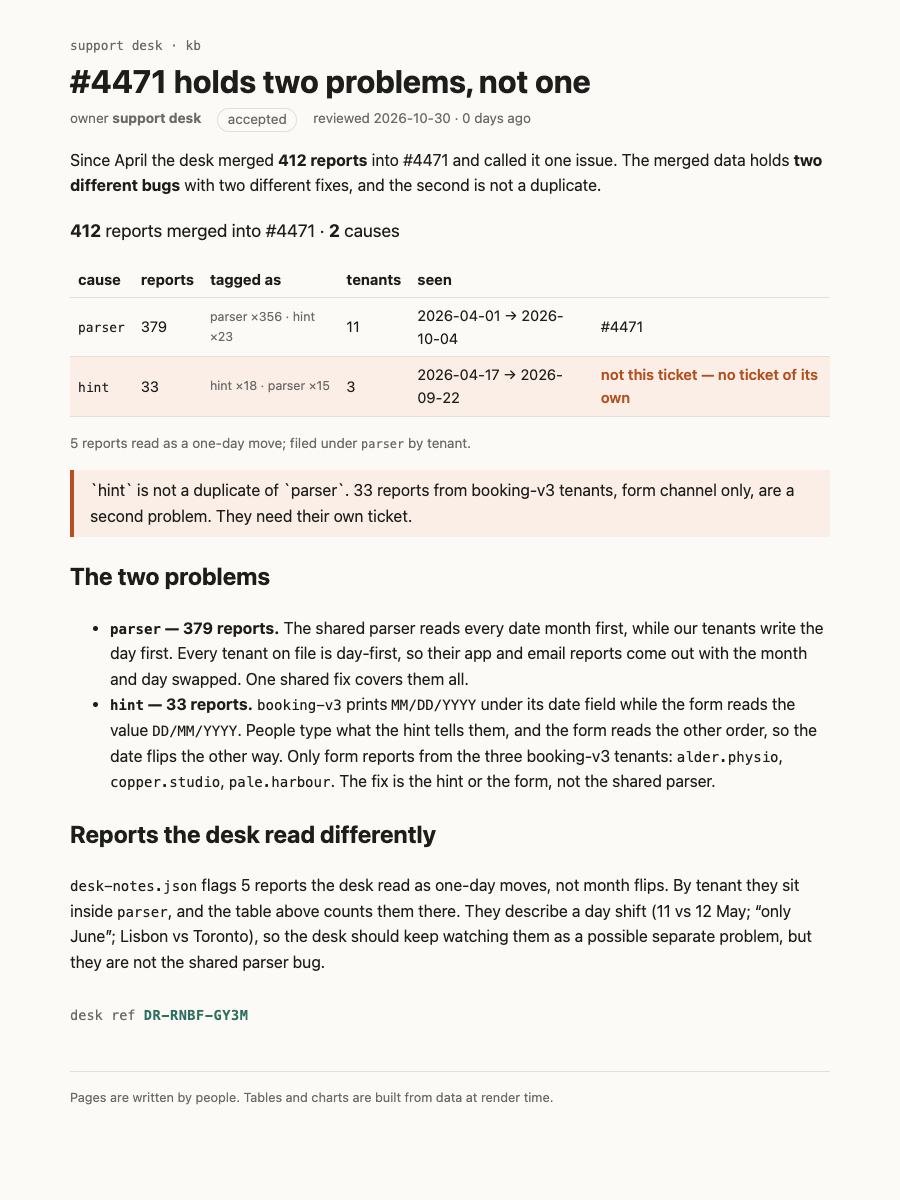
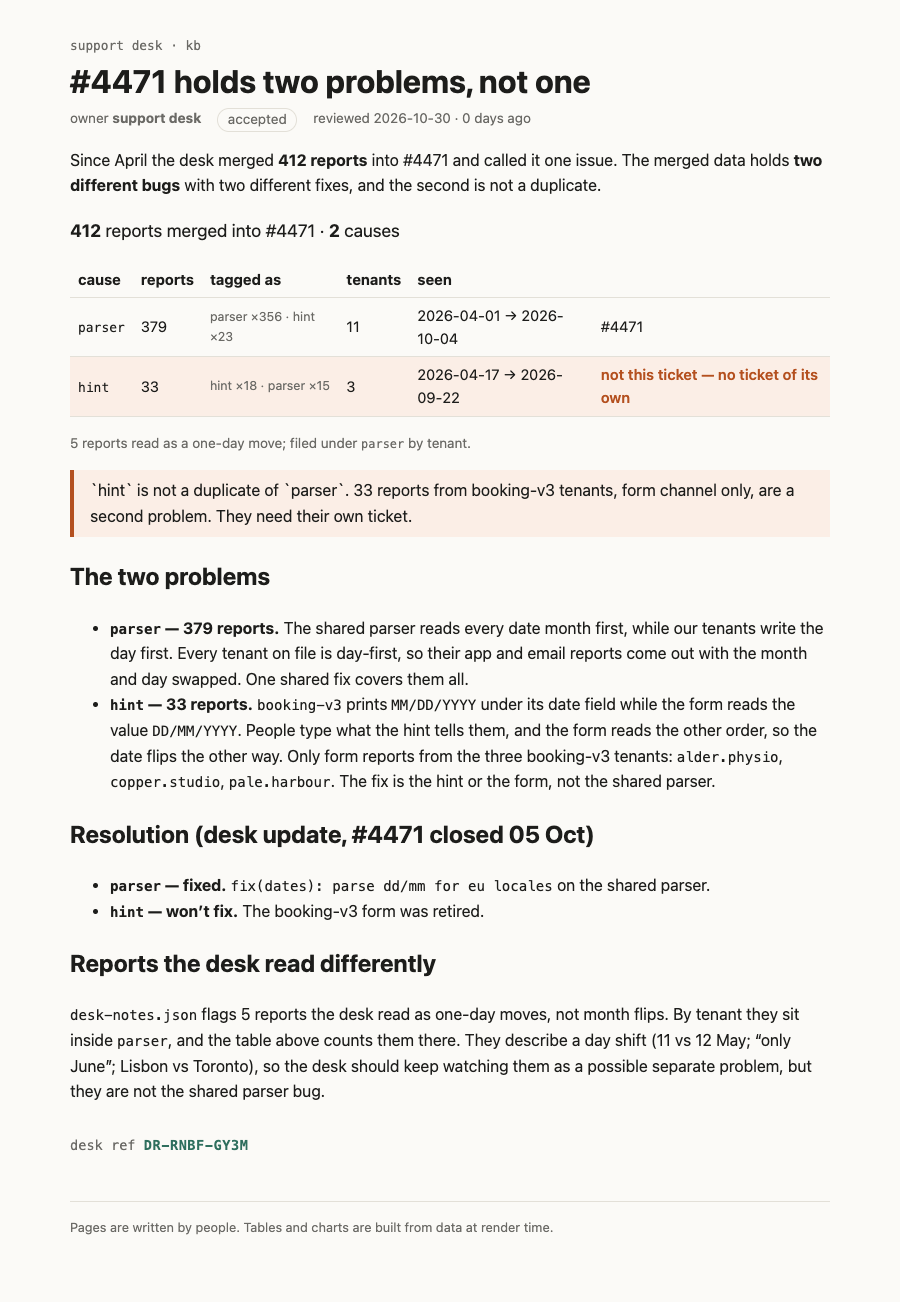
Record desk update: #4471 closed, parser fixed, hint won't fix

Changed region(s): [[0.0622, 0.0308, 0.9022, 0.9558], [0.6533, 0.2467, 0.9022, 0.3392]]

diff --git a/render/4471-split.html b/render/4471-split.html
@@ -3,19 +3,19 @@
   <head>
     <meta charset="utf-8" />
     <meta name="viewport" content="width=device-width, initial-scale=1" />
-    <link href="../../_app/immutable/entry/start.DfA7Uaoa.js" rel="modulepreload">
+    <link href="../../_app/immutable/entry/start.BN0Gp2o3.js" rel="modulepreload">
 		<link href="../../_app/immutable/chunks/CRcspTbo.js" rel="modulepreload">
-		<link href="../../_app/immutable/chunks/BviwEzRQ.js" rel="modulepreload">
+		<link href="../../_app/immutable/chunks/BpSolJod.js" rel="modulepreload">
 		<link href="../../_app/immutable/chunks/D3s-tUuN.js" rel="modulepreload">
-		<link href="../../_app/immutable/entry/app.sOfH24lF.js" rel="modulepreload">
+		<link href="../../_app/immutable/entry/app.Cfd6Z42b.js" rel="modulepreload">
 		<link href="../../_app/immutable/chunks/x-Z7bFtw.js" rel="modulepreload">
 		<link href="../../_app/immutable/chunks/CYIXcEhq.js" rel="modulepreload">
 		<link href="../../_app/immutable/chunks/Bve9mMNQ.js" rel="modulepreload">
 		<link href="../../_app/immutable/chunks/xhiOYC88.js" rel="modulepreload">
 		<link href="../../_app/immutable/nodes/0.B4l5vLWN.js" rel="modulepreload">
 		<link href="../../_app/immutable/chunks/_amNOql9.js" rel="modulepreload">
-		<link href="../../_app/immutable/nodes/6.CrDPxVmW.js" rel="modulepreload">
-		<link href="../../_app/immutable/chunks/kpGaJBaq.js" rel="modulepreload">
+		<link href="../../_app/immutable/nodes/6.DRhnGt9m.js" rel="modulepreload">
+		<link href="../../_app/immutable/chunks/BgHNejmx.js" rel="modulepreload">
 		<link href="../../_app/immutable/chunks/DLDRj6ak.js" rel="modulepreload">
 		<link href="../../_app/immutable/chunks/CUrF2orn.js" rel="modulepreload">
 		<link href="../../_app/immutable/chunks/CcfOalV3.js" rel="modulepreload">
@@ -35,22 +35,22 @@ reports come out with the month and day swapped. One shared fix covers them all.
 form reads the value <code>DD/MM/YYYY</code>. People type what the hint tells them, and the form reads
 the other order, so the date flips the other way. Only form reports from the three
 booking-v3 tenants: <code>alder.physio</code>, <code>copper.studio</code>, <code>pale.harbour</code>. The fix is the hint or
-the form, not the shared parser.</li></ul> <h2>Reports the desk read differently</h2> <p><code>desk-notes.json</code> flags 5 reports the desk read as one-day moves, not month flips. By tenant
+the form, not the shared parser.</li></ul> <h2>Resolution (desk update, #4471 closed 05 Oct)</h2> <ul><li><strong><code>parser</code> — fixed.</strong> <code>fix(dates): parse dd/mm for eu locales</code> on the shared parser.</li> <li><strong><code>hint</code> — won’t fix.</strong> The booking-v3 form was retired.</li></ul> <h2>Reports the desk read differently</h2> <p><code>desk-notes.json</code> flags 5 reports the desk read as one-day moves, not month flips. By tenant
 they sit inside <code>parser</code>, and the table above counts them there. They describe a day shift
 (11 vs 12 May; “only June”; Lisbon vs Toronto), so the desk should keep watching them as a
 possible separate problem, but they are not the shared parser bug.</p> <!--[0--><p class="stamp svelte-1280m42">desk ref <b class="svelte-1280m42">DR-RNBF-GY3M</b></p><!--]--><!----><!----></main> <footer class="svelte-e2jw2j">Pages are written by people. Tables and charts are built from data at render time.</footer></div><!--]--><!----><!--]--><!--]--> <!--[-1--><!--]--><!--]-->
 			
 			<script>
 				{
-					__sveltekit_173a4hl = {
+					__sveltekit_1co06wr = {
 						base: new URL("../..", location).pathname.slice(0, -1)
 					};
 
 					const element = document.currentScript.parentElement;
 
 					Promise.all([
-						import("../../_app/immutable/entry/start.DfA7Uaoa.js"),
-						import("../../_app/immutable/entry/app.sOfH24lF.js")
+						import("../../_app/immutable/entry/start.BN0Gp2o3.js"),
+						import("../../_app/immutable/entry/app.Cfd6Z42b.js")
 					]).then(([kit, app]) => {
 						kit.start(app, element, {
 							node_ids: [0, 6],

diff --git a/README.md b/README.md
@@ -17,6 +17,10 @@ One GitHub issue per problem, each with the number of reports it covers:
 379 + 33 = 412. The 5 reports in `desk-notes.json` that the desk read as "one-day moves" are
 counted inside `parser` here, exactly as the desk filed them.
 
+**Desk update:** #4471 is closed 05 Oct. `parser` is fixed (`fix(dates): parse dd/mm for eu
+locales`); `hint` won't fix, because the booking-v3 form was retired. Both tickets are closed
+to match.
+
 ## The page
 
 `kb/src/routes/kb/incidents/4471-split/+page.svx` is the page added to the kb. It is signed:
